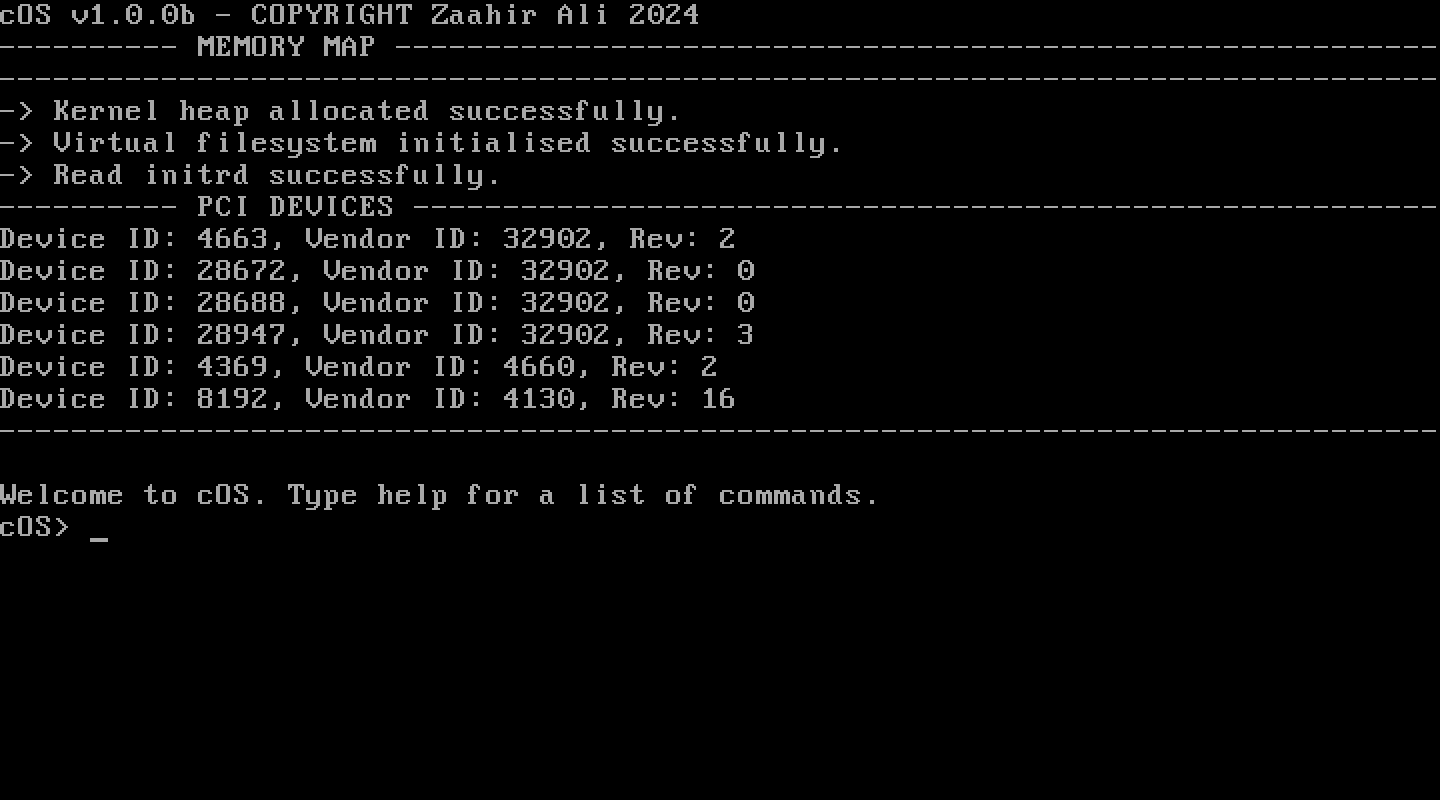
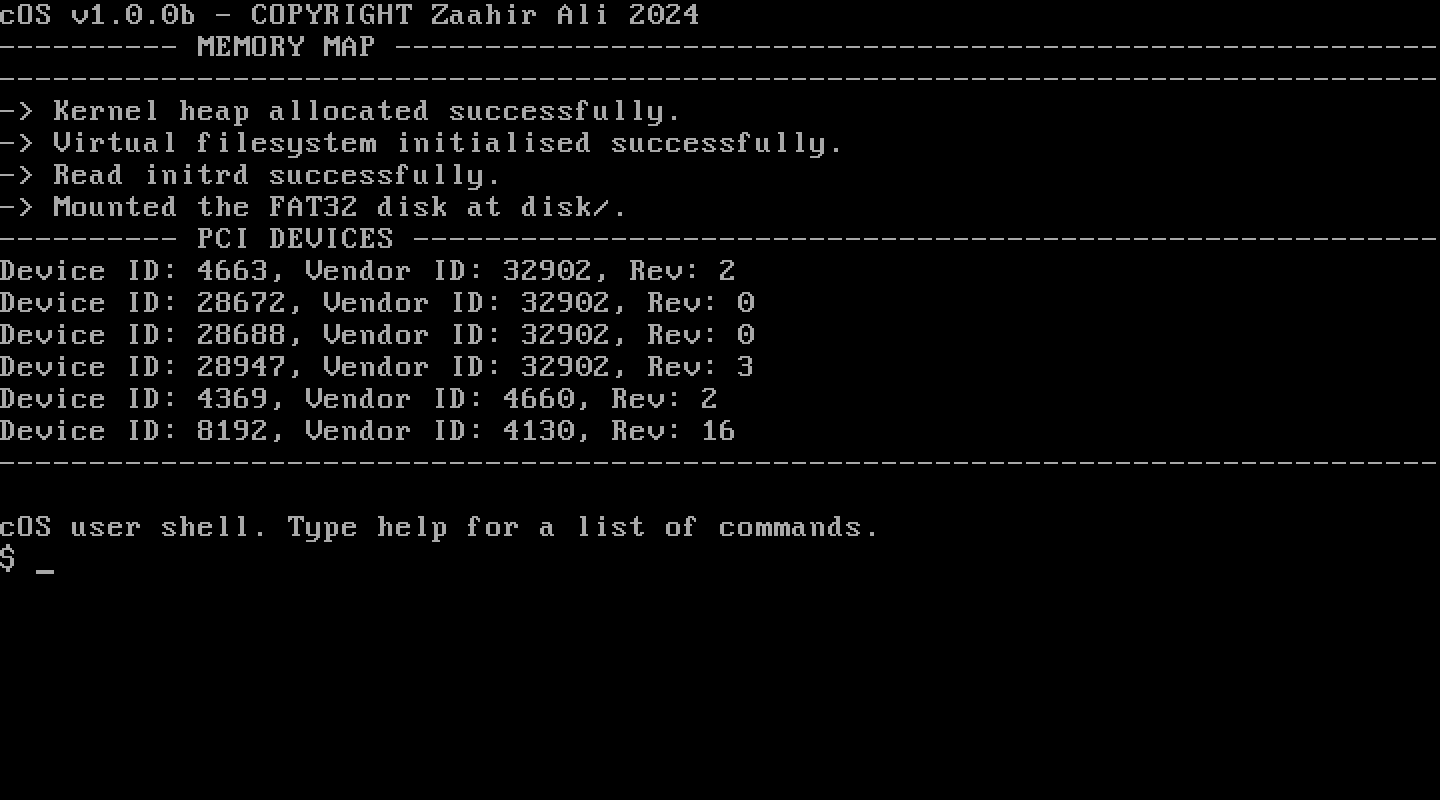
Update sh.cpp

diff --git a/userspace/sh.cpp b/userspace/sh.cpp
@@ -109,3 +109,108 @@ void ls_command(const char* path)
     }
 }
 
+void cat_command(const char* path)
+{
+    uint64_t fd = syscall(SYSCALL_FOPEN, (uint64_t)path, 0);
+    if (fd == (uint64_t)-1)
+    {
+        print("No such file: ");
+        print(path);
+        print("\n");
+        return;
+    }
+    // Read the file in pieces, as it may be larger than the buffer.
+    char buffer[257];
+    uint64_t length;
+    char last = '\n';
+    while ((length = syscall(SYSCALL_FREAD, fd, (uint64_t)buffer, sizeof(buffer) - 1)) && length != (uint64_t)-1)
+    {
+        buffer[length] = '\0';
+        print(buffer);
+        last = buffer[length - 1];
+    }
+    if (last != '\n') { print("\n"); }
+    syscall(SYSCALL_FCLOSE, fd);
+}
+
+void write_command(char* argument)
+{
+    // The file name ends at the first space, and the rest of the line is the text.
+    char* text = argument;
+    while (*text && *text != ' ') { text++; }
+    if (*text) { *text++ = '\0'; }
+    if (!argument[0])
+    {
+        print("Usage: write <file> <text>, such as write disk/notes.txt hello\n");
+        return;
+    }
+    uint64_t fd = syscall(SYSCALL_FOPEN, (uint64_t)argument, FILE_CREATE | FILE_APPEND);
+    if (fd == (uint64_t)-1)
+    {
+        print("Cannot write to ");
+        print(argument);
+        print(", only files on the disk can be written to.\n");
+        return;
+    }
+    syscall(SYSCALL_FWRITE, fd, (uint64_t)text, string_length(text));
+    syscall(SYSCALL_FWRITE, fd, (uint64_t)"\n", 1);
+    syscall(SYSCALL_FCLOSE, fd);
+}
+
+void run_program(const char* name)
+{
+    // A program name without a directory is looked up in initrd/bin.
+    char path[MAX_LINE_LENGTH + 12];
+    bool hasDirectory = false;
+    for (const char* c = name; *c; c++) { if (*c == '/') { hasDirectory = true; } }
+    copy_string(path, hasDirectory ? "" : "initrd/bin/");
+    copy_string(path + string_length(path), name);
+
+    uint64_t tid = syscall(SYSCALL_SPAWN, (uint64_t)path);
+    if (tid == (uint64_t)-1)
+    {
+        print("No such program: ");
+        print(path);
+        print("\n");
+        return;
+    }
+    auto exitCode = (int64_t)syscall(SYSCALL_WAIT, tid);
+    // Keys typed while the program ran were meant for it, so we discard them.
+    while (syscall(SYSCALL_EREAD, keyboardEventDescriptor, 0, 0)) {}
+    print("Exited with code ");
+    if (exitCode < 0) { print("-"); exitCode = -exitCode; }
+    print_number(exitCode);
+    print(".\n");
+}
+
+extern "C" void _start()
+{
+    keyboardEventDescriptor = syscall(SYSCALL_EREGISTER, (uint64_t)"HID/Keyboard", 0);
+    print("\ncOS user shell. Type help for a list of commands.\n");
+    char line[MAX_LINE_LENGTH + 1];
+    while (1)
+    {
+        print("$ ");
+        read_line(line);
+
+        // Split the line into the command and its argument at the first space.
+        char* argument = line;
+        while (*argument && *argument != ' ') { argument++; }
+        if (*argument) { *argument++ = '\0'; }
+        while (*argument == ' ') { argument++; }
+
+        if (!line[0]) { continue; }
+        else if (strings_equal(line, "help")) { help_command(); }
+        else if (strings_equal(line, "clear")) { syscall(SYSCALL_CLEAR); }
+        else if (strings_equal(line, "echo")) { print(argument); print("\n"); }
+        else if (strings_equal(line, "ls")) { ls_command(*argument ? argument : "initrd"); }
+        else if (strings_equal(line, "cat")) { cat_command(argument); }
+        else if (strings_equal(line, "write")) { write_command(argument); }
+        else if (strings_equal(line, "exit"))
+        {
+            syscall(SYSCALL_EDEREGISTER, keyboardEventDescriptor);
+            syscall(SYSCALL_EXIT, 0);
+        }
+        else { run_program(line); }
+    }
+}
